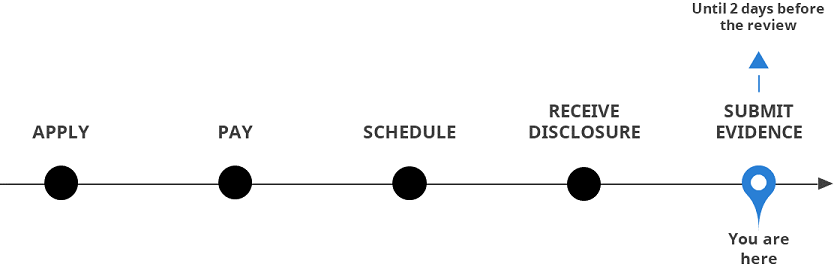
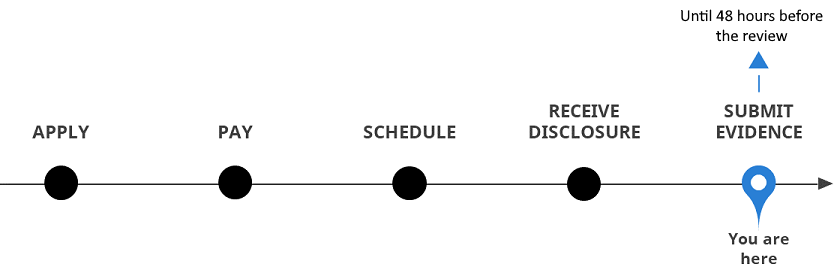
APR-139 - changes to evidence template draft completion

Changed region(s): [[0.8106, 0.0, 0.9976, 0.1498]]

diff --git a/python/common/templates/evidence_received.html b/python/common/templates/evidence_received.html
@@ -2,13 +2,13 @@
 
 {% block primary_text_1 %}
    On {{ today_date or "[ today's date and time ]"}},
-   we received the evidence that will be considered for your review.
+   we received the documents you uploaded that will be considered by the adjudicator for your review.
 {% endblock %}
 
 {% block primary_text_2 %}
    You may visit
-   <a href="{{ link_to_evidence_form }}">Upload Evidence and Statement</a>
-   to provide additional evidence until 2 days before the review.
+   <a href="{{ link_to_evidence_form }}">Upload Supporting Documents</a>
+   to provide additional evidence until 48 hours before the scheduled review time.
 {% endblock %}
 
 {% block timeline %}evidence.png{% endblock %}

diff --git a/python/common/templates/partials/call_appeals_registry.html b/python/common/templates/partials/call_appeals_registry.html
@@ -1,3 +1,3 @@
 <strong>Please do not respond to this email.</strong> We've sent it from an account that doesn't
 accept responses. If you need to reach us, call 1-855-387-7747. Select option 5 to reach the
-Appeals Registry.
+Appeals Registry or attend a driver licensing office.

diff --git a/python/form_handler/tests/test_document_submission.py b/python/form_handler/tests/test_document_submission.py
@@ -29,7 +29,7 @@ def test_applicant_sent_email_confirming_evidence_received(monkeypatch):
         print('inside mock_send_email()')
         assert "me@gov.bc.ca" in args[0]
         print("Subject: {}".format(args[1]))
-        assert "Evidence Received - Driving Prohibition 20-123456 Review" in args[3]
+        assert "Documents Received - Driving Prohibition 20-123456 Review" in args[3]
         assert "we received the evidence that will be considered for your review." in args[3]
         assert "http://link-to-evidence-form" in args[3]
         return True

diff --git a/python/common/rsi_email.py b/python/common/rsi_email.py
@@ -591,8 +591,8 @@ def content_data() -> dict:
             "title": "Submit Evidence",
         },
         "evidence_received.html": {
-            "raw_subject": "Evidence Received - Driving Prohibition {} Review",
-            "title": "Evidence Received",
+            "raw_subject": "Documents Received - Driving Prohibition {} Review",
+            "title": "Documents Received",
         },
         "review_type_change.html": {
             "raw_subject": "Review Type Change - Driving Prohibition {} Review",
